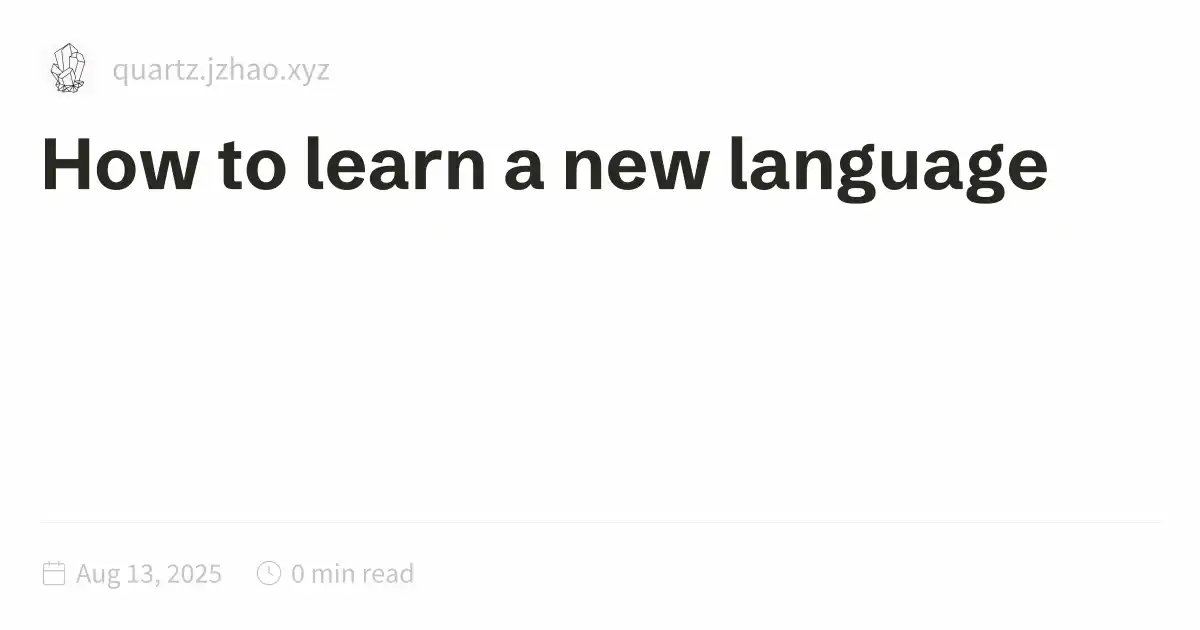
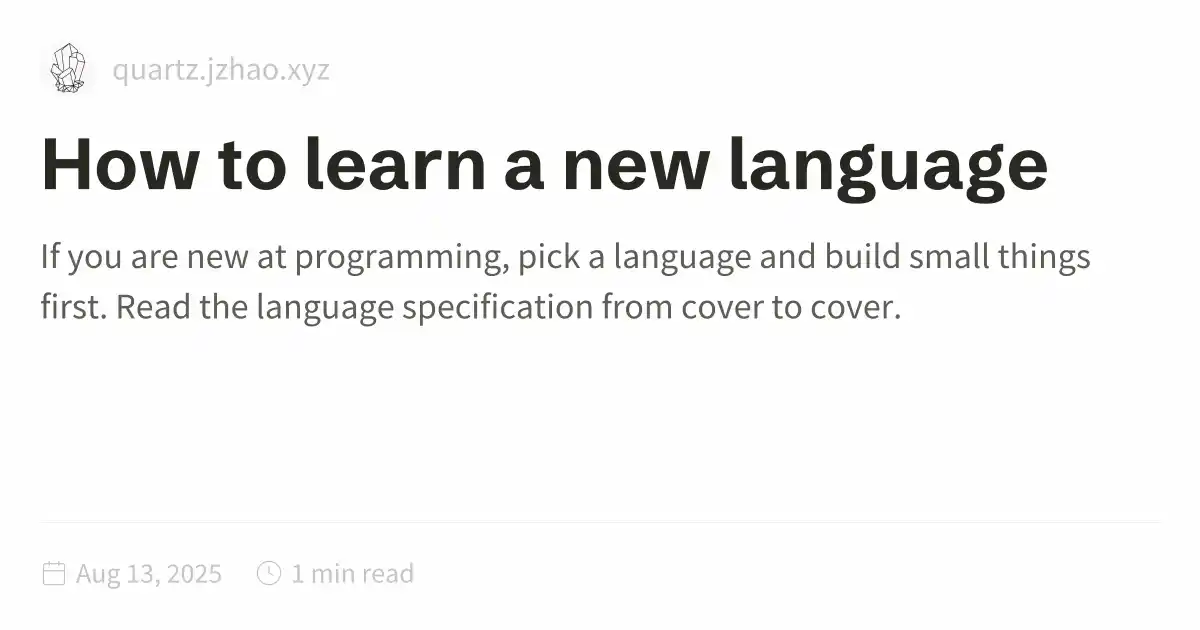
Quartz sync: Aug 13, 2025, 2:22 PM

Changed region(s): [[0.0308, 0.3921, 0.925, 0.5127]]

diff --git a/public/How-to-learn-a-new-language.html b/public/How-to-learn-a-new-language.html
@@ -1,5 +1,5 @@
 <!DOCTYPE html>
-<html lang="en"><head><title>How to learn a new language</title><meta charset="utf-8"/><link rel="preconnect" href="https://fonts.googleapis.com"/><link rel="preconnect" href="https://fonts.gstatic.com"/><link rel="stylesheet" href="https://fonts.googleapis.com/css2?family=Schibsted Grotesk:wght@400;700&amp;family=Source Sans Pro:ital,wght@0,400;0,600;1,400;1,600&amp;family=IBM Plex Mono:wght@400;600&amp;display=swap"/><link rel="preconnect" href="https://cdnjs.cloudflare.com" crossorigin="anonymous"/><meta name="viewport" content="width=device-width, initial-scale=1.0"/><meta name="og:site_name" content="Essays"/><meta property="og:title" content="How to learn a new language"/><meta property="og:type" content="website"/><meta name="twitter:card" content="summary_large_image"/><meta name="twitter:title" content="How to learn a new language"/><meta name="twitter:description" content/><meta property="og:description" content/><meta property="og:image:alt" content/><meta property="twitter:domain" content="quartz.jzhao.xyz"/><meta property="og:url" content="https://quartz.jzhao.xyz/How-to-learn-a-new-language"/><meta property="twitter:url" content="https://quartz.jzhao.xyz/How-to-learn-a-new-language"/><link rel="icon" href="./static/icon.png"/><meta name="description" content/><meta name="generator" content="Quartz"/><link href="./index.css" rel="stylesheet" type="text/css" spa-preserve/><style>.expand-button {
+<html lang="en"><head><title>How to learn a new language</title><meta charset="utf-8"/><link rel="preconnect" href="https://fonts.googleapis.com"/><link rel="preconnect" href="https://fonts.gstatic.com"/><link rel="stylesheet" href="https://fonts.googleapis.com/css2?family=Schibsted Grotesk:wght@400;700&amp;family=Source Sans Pro:ital,wght@0,400;0,600;1,400;1,600&amp;family=IBM Plex Mono:wght@400;600&amp;display=swap"/><link rel="preconnect" href="https://cdnjs.cloudflare.com" crossorigin="anonymous"/><meta name="viewport" content="width=device-width, initial-scale=1.0"/><meta name="og:site_name" content="Essays"/><meta property="og:title" content="How to learn a new language"/><meta property="og:type" content="website"/><meta name="twitter:card" content="summary_large_image"/><meta name="twitter:title" content="How to learn a new language"/><meta name="twitter:description" content="If you are new at programming, pick a language and build small things first. Read the language specification from cover to cover."/><meta property="og:description" content="If you are new at programming, pick a language and build small things first. Read the language specification from cover to cover."/><meta property="og:image:alt" content="If you are new at programming, pick a language and build small things first. Read the language specification from cover to cover."/><meta property="twitter:domain" content="quartz.jzhao.xyz"/><meta property="og:url" content="https://quartz.jzhao.xyz/How-to-learn-a-new-language"/><meta property="twitter:url" content="https://quartz.jzhao.xyz/How-to-learn-a-new-language"/><link rel="icon" href="./static/icon.png"/><meta name="description" content="If you are new at programming, pick a language and build small things first. Read the language specification from cover to cover."/><meta name="generator" content="Quartz"/><link href="./index.css" rel="stylesheet" type="text/css" spa-preserve/><style>.expand-button {
   position: absolute;
   display: flex;
   float: right;
@@ -116,6 +116,14 @@ pre:hover > .expand-button {
   padding: 0 12px;
   font-size: 14px;
 }
[2 lines of base64/hex data omitted]
+<p>Read the language specification from cover to cover.<br/>
+Then read the standard library from cover to cover.</p>
+<p>Don’t stop for too long if you don’t understand something.<br/>
+Yes it’s going to be hard and tenuous.<br/>
+Yes it won’t make you an expert immediately.<br/>
+This is a first step where your brain will index what’s most likely the source of truth for this language.</p>
+<p>Then start to build things, and refer to that documentation when you have doubts.
+This is how you will become an expert.</p></article><hr/><div class="page-footer"></div></div><div class="right sidebar"></div><div class="spacer"></div></div></div></body><script type="application/javascript">function n(){let t=this.parentElement;t.classList.toggle("is-collapsed");let e=t.getElementsByClassName("callout-content")[0];if(!e)return;let l=t.classList.contains("is-collapsed");e.style.gridTemplateRows=l?"0fr":"1fr"}function c(){let t=document.getElementsByClassName("callout is-collapsible");for(let e of t){let l=e.getElementsByClassName("callout-title")[0],s=e.getElementsByClassName("callout-content")[0];if(!l||!s)continue;l.addEventListener("click",n),window.addCleanup(()=>l.removeEventListener("click",n));let o=e.classList.contains("is-collapsed");s.style.gridTemplateRows=o?"0fr":"1fr"}}document.addEventListener("nav",c);
 </script><script type="module">function f(i,e){if(!i)return;function r(o){o.target===this&&(o.preventDefault(),o.stopPropagation(),e())}function t(o){o.key.startsWith("Esc")&&(o.preventDefault(),e())}i?.addEventListener("click",r),window.addCleanup(()=>i?.removeEventListener("click",r)),document.addEventListener("keydown",t),window.addCleanup(()=>document.removeEventListener("keydown",t))}function y(i){for(;i.firstChild;)i.removeChild(i.firstChild)}var h=class{constructor(e,r){this.container=e;this.content=r;this.setupEventListeners(),this.setupNavigationControls(),this.resetTransform()}isDragging=!1;startPan={x:0,y:0};currentPan={x:0,y:0};scale=1;MIN_SCALE=.5;MAX_SCALE=3;cleanups=[];setupEventListeners(){let e=this.onMouseDown.bind(this),r=this.onMouseMove.bind(this),t=this.onMouseUp.bind(this),o=this.resetTransform.bind(this);this.container.addEventListener("mousedown",e),document.addEventListener("mousemove",r),document.addEventListener("mouseup",t),window.addEventListener("resize",o),this.cleanups.push(()=>this.container.removeEventListener("mousedown",e),()=>document.removeEventListener("mousemove",r),()=>document.removeEventListener("mouseup",t),()=>window.removeEventListener("resize",o))}cleanup(){for(let e of this.cleanups)e()}setupNavigationControls(){let e=document.createElement("div");e.className="mermaid-controls";let r=this.createButton("+",()=>this.zoom(.1)),t=this.createButton("-",()=>this.zoom(-.1)),o=this.createButton("Reset",()=>this.resetTransform());e.appendChild(t),e.appendChild(o),e.appendChild(r),this.container.appendChild(e)}createButton(e,r){let t=document.createElement("button");return t.textContent=e,t.className="mermaid-control-button",t.addEventListener("click",r),window.addCleanup(()=>t.removeEventListener("click",r)),t}onMouseDown(e){e.button===0&&(this.isDragging=!0,this.startPan={x:e.clientX-this.currentPan.x,y:e.clientY-this.currentPan.y},this.container.style.cursor="grabbing")}onMouseMove(e){this.isDragging&&(e.preventDefault(),this.currentPan={x:e.clientX-this.startPan.x,y:e.clientY-this.startPan.y},this.updateTransform())}onMouseUp(){this.isDragging=!1,this.container.style.cursor="grab"}zoom(e){let r=Math.min(Math.max(this.scale+e,this.MIN_SCALE),this.MAX_SCALE),t=this.content.getBoundingClientRect(),o=t.width/2,n=t.height/2,c=r-this.scale;this.currentPan.x-=o*c,this.currentPan.y-=n*c,this.scale=r,this.updateTransform()}updateTransform(){this.content.style.transform=`translate(${this.currentPan.x}px, ${this.currentPan.y}px) scale(${this.scale})`}resetTransform(){this.scale=1;let e=this.content.querySelector("svg");this.currentPan={x:e.getBoundingClientRect().width/2,y:e.getBoundingClientRect().height/2},this.updateTransform()}},C=["--secondary","--tertiary","--gray","--light","--lightgray","--highlight","--dark","--darkgray","--codeFont"],E;document.addEventListener("nav",async()=>{let e=document.querySelector(".center").querySelectorAll("code.mermaid");if(e.length===0)return;E||=await import("https://cdnjs.cloudflare.com/ajax/libs/mermaid/11.4.0/mermaid.esm.min.mjs");let r=E.default,t=new WeakMap;for(let n of e)t.set(n,n.innerText);async function o(){for(let s of e){s.removeAttribute("data-processed");let a=t.get(s);a&&(s.innerHTML=a)}let n=C.reduce((s,a)=>(s[a]=window.getComputedStyle(document.documentElement).getPropertyValue(a),s),{}),c=document.documentElement.getAttribute("saved-theme")==="dark";r.initialize({startOnLoad:!1,securityLevel:"loose",theme:c?"dark":"base",themeVariables:{fontFamily:n["--codeFont"],primaryColor:n["--light"],primaryTextColor:n["--darkgray"],primaryBorderColor:n["--tertiary"],lineColor:n["--darkgray"],secondaryColor:n["--secondary"],tertiaryColor:n["--tertiary"],clusterBkg:n["--light"],edgeLabelBackground:n["--highlight"]}}),await r.run({nodes:e})}await o(),document.addEventListener("themechange",o),window.addCleanup(()=>document.removeEventListener("themechange",o));for(let n=0;n<e.length;n++){let v=function(){let g=l.querySelector("#mermaid-space"),m=l.querySelector(".mermaid-content");if(!m)return;y(m);let w=c.querySelector("svg").cloneNode(!0);m.appendChild(w),l.classList.add("active"),g.style.cursor="grab",u=new h(g,m)},M=function(){l.classList.remove("active"),u?.cleanup(),u=null},c=e[n],s=c.parentElement,a=s.querySelector(".clipboard-button"),d=s.querySelector(".expand-button"),p=window.getComputedStyle(a),L=a.offsetWidth+parseFloat(p.marginLeft||"0")+parseFloat(p.marginRight||"0");d.style.right=`calc(${L}px + 0.3rem)`,s.prepend(d);let l=s.querySelector("#mermaid-container");if(!l)return;let u=null;d.addEventListener("click",v),f(l,M),window.addCleanup(()=>{u?.cleanup(),d.removeEventListener("click",v)})}});
 </script><script src="https://cdn.jsdelivr.net/npm/katex@0.16.11/dist/contrib/copy-tex.min.js" type="application/javascript"></script><script src="./postscript.js" type="module"></script></html>

diff --git a/content/How to learn a new language?.md b/content/How to learn a new language?.md
@@ -1,4 +1,16 @@
 ---
 title: How to learn a new language
-draft: false
+draft:
 ---
+If you are new at programming, pick a language and build small things first.  
+
+Read the language specification from cover to cover.  
+Then read the standard library from cover to cover.  
+
+Don't stop for too long if you don't understand something.  
+Yes it's going to be hard and tenuous.  
+Yes it won't make you an expert immediately.  
+This is a first step where your brain will index what's most likely the source of truth for this language.  
+
+Then start to build things, and refer to that documentation when you have doubts. 
+This is how you will become an expert.

diff --git a/content/How to learn a new codebase?.md b/content/How to learn a new codebase?.md
@@ -2,16 +2,5 @@
 title: How to learn a new codebase?
 draft: true
 ---
-If you are new at programming, pick a language and build small things first.  
 
-Read the language specification from cover to cover.  
-Then read the standard library from cover to cover.  
-
-Don't stop for too long if you don't understand something.  
-Yes it's going to be hard and tenuous.  
-Yes it won't make you an expert immediately.  
-This is a first step where your brain will index what's most likely the source of truth for this language.  
-
-Then start to build things, and refer to that documentation when you have doubts. 
-This is how you will become an expert.
 
